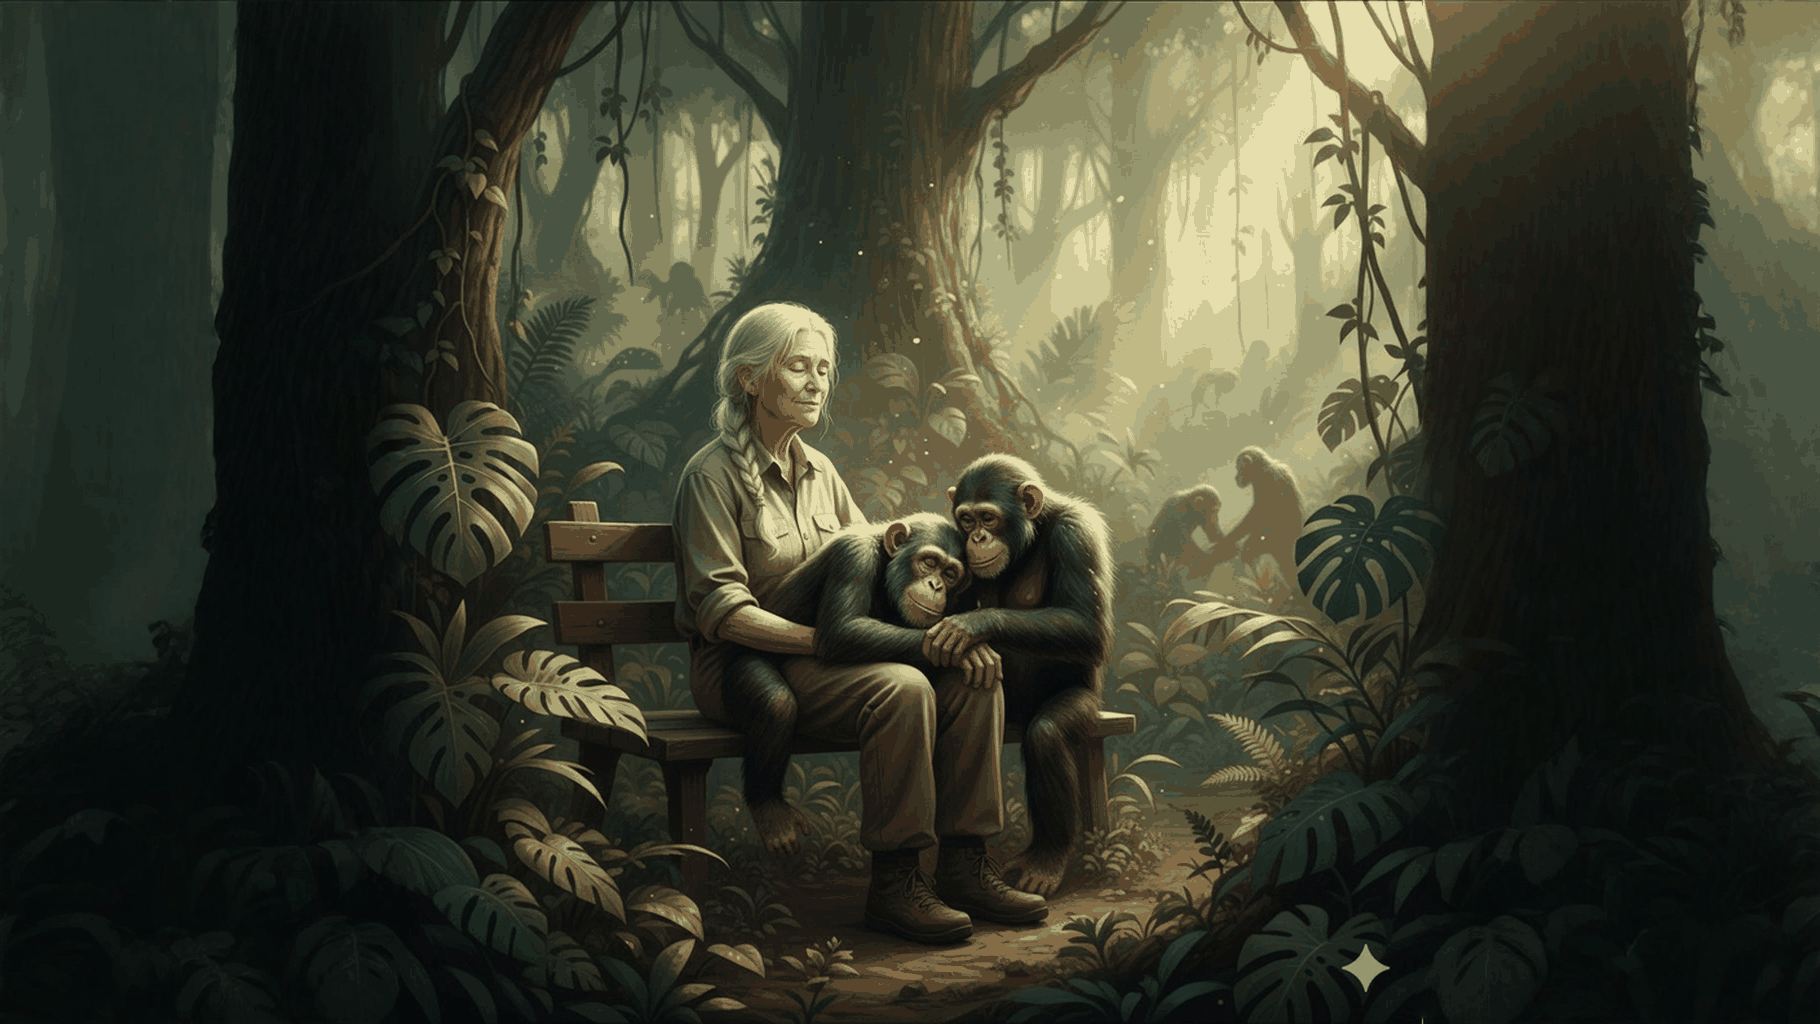
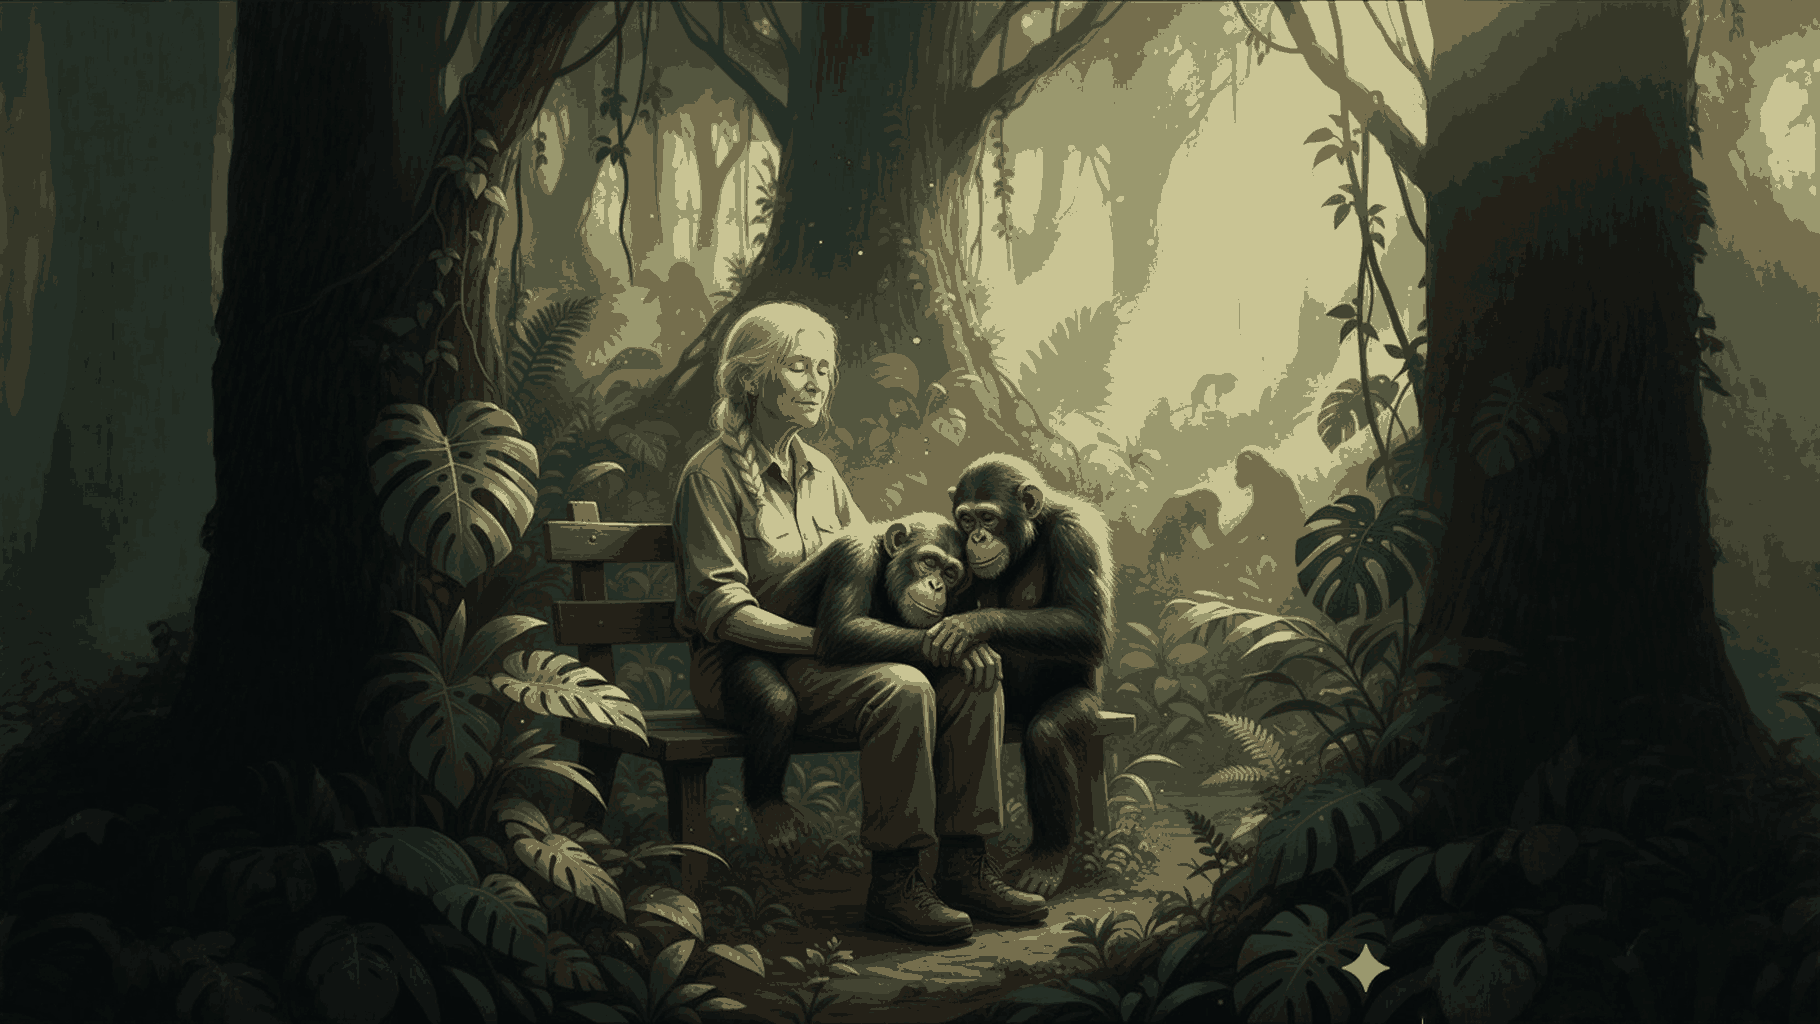
Optimize OG image for WhatsApp: under 300KB and moved tags to top

diff --git a/public/index.html b/public/index.html
@@ -1,10 +1,7 @@
 <!DOCTYPE html>
-<html class="light" dir="rtl" lang="he">
+<html class="light" dir="rtl" lang="he" prefix="og: http://ogp.me/ns#">
 <head>
-<meta charset="utf-8"/>
-<meta content="width=device-width, initial-scale=1.0" name="viewport"/>
 <!-- Open Graph / Facebook / WhatsApp -->
-<!-- NOTE: If your Vercel domain is different, update the domain below -->
 <meta property="og:type" content="website"/>
 <meta property="og:title" content="ג'יין גודול: החברה של הקופים - מצגת מאת מילי"/>
 <meta property="og:image" content="https://milly-jane.vercel.app/assets/images/albertresize-1792x1024.png"/>
@@ -19,6 +16,9 @@
 <meta name="twitter:title" content="ג'יין גודול: החברה של הקופים - מצגת מאת מילי"/>
 <meta name="twitter:image" content="https://milly-jane.vercel.app/assets/images/albertresize-1792x1024.png"/>
 <meta name="twitter:description" content="מצגת על ג'יין גודול והקשר המיוחד שלה עם השימפנזים"/>
+<meta charset="utf-8"/>
+<meta content="width=device-width, initial-scale=1.0" name="viewport"/>
+<!-- NOTE: If your Vercel domain is different, update the domain below -->
 <title>ג'יין גודול: החברה של הקופים - מצגת מאת מילי</title>
 <link href="https://fonts.googleapis.com" rel="preconnect"/>
 <link crossorigin="" href="https://fonts.gstatic.com" rel="preconnect"/>
